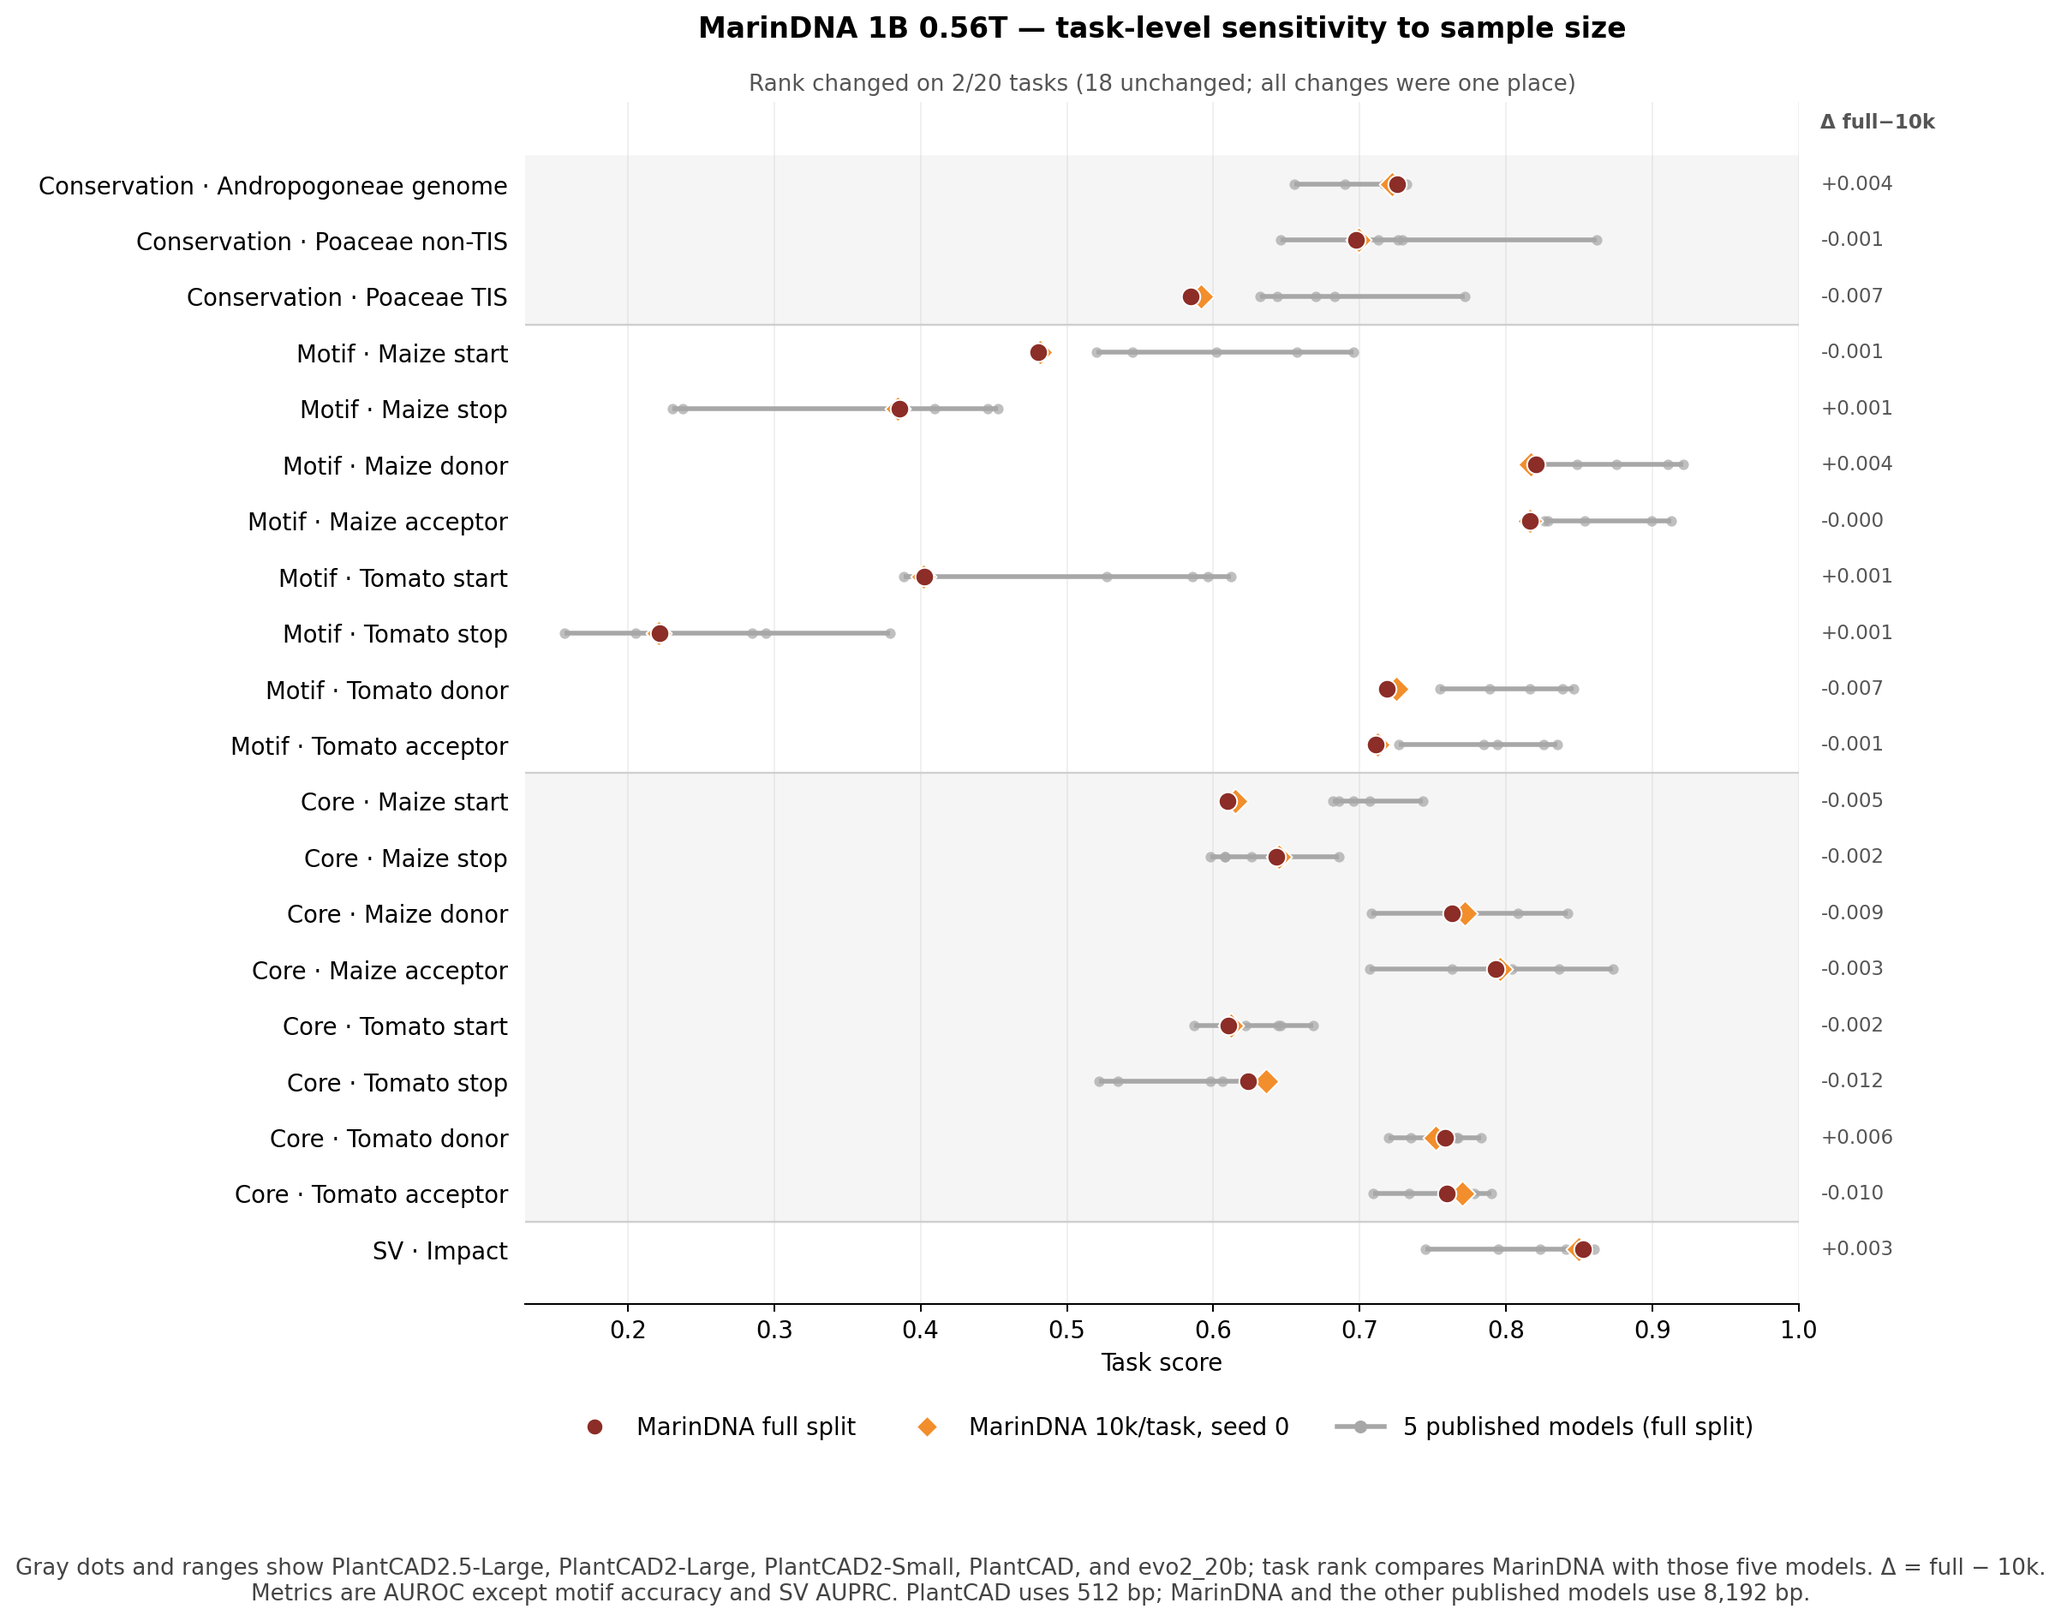
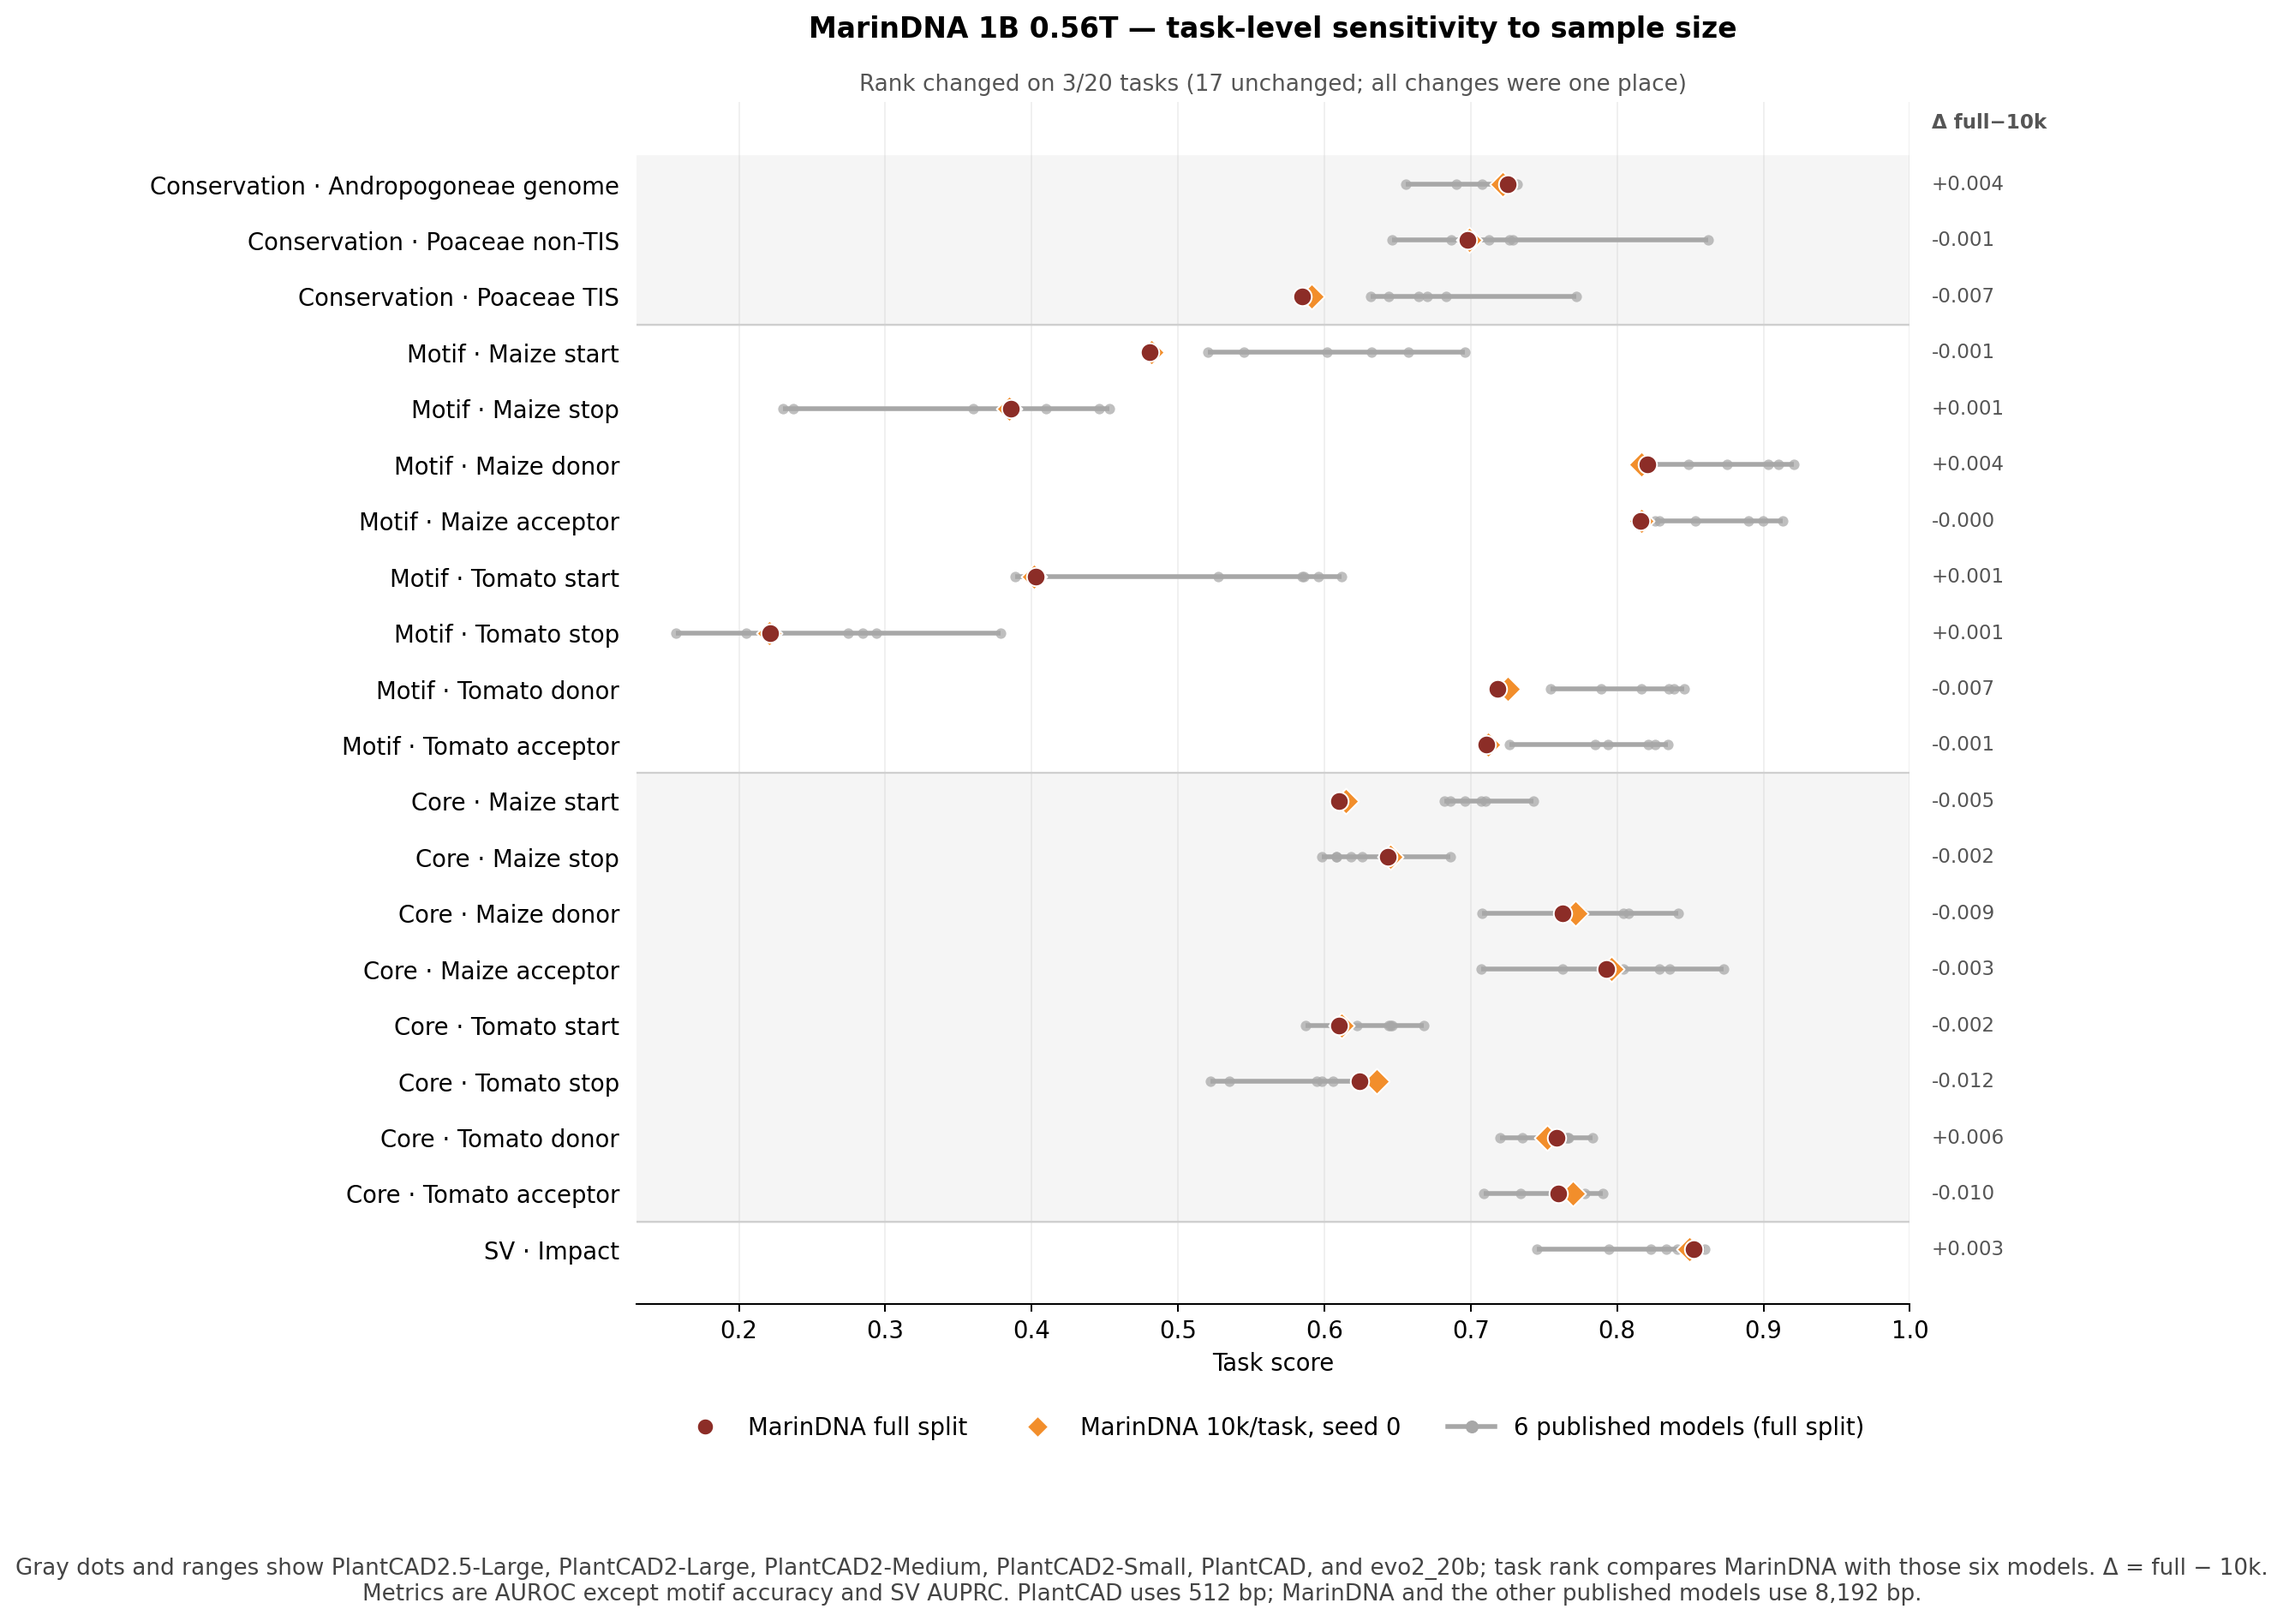
Add PlantCAD2-Medium to Result 7

diff --git a/zero-shot-leaderboard/evo2_20b/pilot/plot_task_sample_context.py b/zero-shot-leaderboard/evo2_20b/pilot/plot_task_sample_context.py
@@ -141,10 +141,10 @@ def main() -> None:
     legend = [
         mlines.Line2D([], [], marker="o", linestyle="none", markersize=8, markerfacecolor="#8C2D27", markeredgecolor="white", label="MarinDNA full split"),
         mlines.Line2D([], [], marker="D", linestyle="none", markersize=7.5, markerfacecolor="#F28E2B", markeredgecolor="white", label="MarinDNA 10k/task, seed 0"),
-        mlines.Line2D([], [], marker="o", color="#A7A7A7", linewidth=2.2, markersize=5, label="5 published models (full split)"),
+        mlines.Line2D([], [], marker="o", color="#A7A7A7", linewidth=2.2, markersize=5, label=f"{published.shape[0]} published models (full split)"),
     ]
     ax.legend(handles=legend, ncols=3, loc="upper center", bbox_to_anchor=(0.5, -0.075), frameon=False)
-    fig.text(0.5, 0.015, "Gray dots and ranges show PlantCAD2.5-Large, PlantCAD2-Large, PlantCAD2-Small, PlantCAD, and evo2_20b; task rank compares MarinDNA with those five models. Δ = full − 10k.\nMetrics are AUROC except motif accuracy and SV AUPRC. PlantCAD uses 512 bp; MarinDNA and the other published models use 8,192 bp.", ha="center", fontsize=10.5, color="#444444")
+    fig.text(0.5, 0.015, "Gray dots and ranges show PlantCAD2.5-Large, PlantCAD2-Large, PlantCAD2-Medium, PlantCAD2-Small, PlantCAD, and evo2_20b; task rank compares MarinDNA with those six models. Δ = full − 10k.\nMetrics are AUROC except motif accuracy and SV AUPRC. PlantCAD uses 512 bp; MarinDNA and the other published models use 8,192 bp.", ha="center", fontsize=10.5, color="#444444")
     fig.tight_layout(rect=(0, 0.09, 0.96, 1))
     args.output.parent.mkdir(parents=True, exist_ok=True)
     fig.savefig(args.output, dpi=180, bbox_inches="tight")

diff --git a/zero-shot-leaderboard/evo2_20b/pilot/plot_family_comparison.py b/zero-shot-leaderboard/evo2_20b/pilot/plot_family_comparison.py
@@ -17,6 +17,7 @@ from plot_recommended_comparison import PLOT_CATEGORIES, TASK_IDS, category_summ
 PUBLISHED_MODELS = (
     ("PlantCAD2.5-Large", "PlantCAD2.5-L", "8192", "#174A7E"),
     ("PlantCAD2-Large", "PlantCAD2-L", "8192", "#2F78A8"),
+    ("PlantCAD2-Medium", "PlantCAD2-M", "8192", "#4E90B6"),
     ("PlantCAD2-Small", "PlantCAD2-S", "8192", "#66A6C9"),
     ("PlantCAD (512 bp)", "PlantCAD", "512", "#A6CEE3"),
     ("evo2_20b", "evo2_20b", "8192", "#7A5195"),

diff --git a/zero-shot-leaderboard/evo2_20b/pilot/plot_recommended_comparison.py b/zero-shot-leaderboard/evo2_20b/pilot/plot_recommended_comparison.py
@@ -15,6 +15,7 @@ import numpy as np
 BASELINE_MODELS = {
     "PlantCAD2.5-Large": ("PlantCAD2.5-L", "8192"),
     "PlantCAD2-Large": ("PlantCAD2-L", "8192"),
+    "PlantCAD2-Medium": ("PlantCAD2-M", "8192"),
     "PlantCAD2-Small": ("PlantCAD2-S", "8192"),
     "PlantCAD (512 bp)": ("PlantCAD", "512"),
     "evo2_20b": ("evo2_20b", "8192"),

diff --git a/zero-shot-leaderboard/evo2_20b/pilot/runs/exp472-lr5e4-full-coreweave-20260831.md b/zero-shot-leaderboard/evo2_20b/pilot/runs/exp472-lr5e4-full-coreweave-20260831.md
@@ -4,11 +4,11 @@
 
 ![Full MarinDNA training-scale comparison](assets/marindna-1b-full-lr5e4-family-comparison-20260831.png)
 
-**Composite: 0.6843 → 0.6927 → 0.6966** at .22T → .39T → .56T. The .39T checkpoint improves 19/20 task rows over .22T; .56T improves 19/20 over .39T. All four group means increase at each stage. From .39T to .56T, all eight motif and all eight core/non-core rows improve; the only decline is Andropogoneae conservation (−0.0015 AUROC). The .56T Composite exceeds PlantCAD2-Small (0.6818) and PlantCAD (0.6808), but remains below the larger PlantCAD models and evo2_20b.
+**Composite: 0.6843 → 0.6927 → 0.6966** at .22T → .39T → .56T. The .39T checkpoint improves 19/20 task rows over .22T; .56T improves 19/20 over .39T. All four group means increase at each stage. From .39T to .56T, all eight motif and all eight core/non-core rows improve; the only decline is Andropogoneae conservation (−0.0015 AUROC). The .56T Composite exceeds PlantCAD2-Small (0.6818) and PlantCAD (0.6808), but remains below PlantCAD2-Medium (0.7248), PlantCAD2.5-Large (0.7229), PlantCAD2-Large (0.7344), and evo2_20b (0.7566).
 
 ![MarinDNA 0.56T full versus 10k by task](assets/marindna-1b-0p56t-full-vs-10k-by-task-20260831.png)
 
-At the task level, the .56T full and 10k scores remain close relative to the spread across five published models. MarinDNA's rank among those six models changes on 2/20 tasks, by one place each; the mean absolute score difference is 0.0040 and the largest is 0.0120. The direct same-example check below shows that these shifts come from sample composition rather than numerical drift.
+At the task level, the .56T full and 10k scores remain close relative to the spread across six published models. MarinDNA's rank among those seven models changes on 3/20 tasks, by one place each; the mean absolute score difference is 0.0040 and the largest is 0.0120. The direct same-example check below shows that these shifts come from sample composition rather than numerical drift.
 
 Composite gives each of the four task groups equal weight (25% each), not each of the 20 rows. Scoring is unchanged: select the larger completed forward/RC **task-level metric** for non-SV tasks; SV remains forward reference-versus-mutant. The figure uses model-family colors and annotates .56T and evo2_20b.
 
@@ -22,6 +22,7 @@ Composite gives each of the four task groups equal weight (25% each), not each o
 | MarinDNA 1B 0.22T | 0.6624 | 0.5428 | 0.6871 | 0.8448 | 0.6843 |
 | PlantCAD2.5-Large | 0.7097 | 0.6954 | 0.7414 | 0.7450 | 0.7229 |
 | PlantCAD2-Large | 0.7024 | 0.6777 | 0.7166 | 0.8410 | 0.7344 |
+| PlantCAD2-Medium | 0.6864 | 0.6627 | 0.7165 | 0.8334 | 0.7248 |
 | PlantCAD2-Small | 0.6445 | 0.6059 | 0.6823 | 0.7946 | 0.6818 |
 | PlantCAD (512 bp) | 0.6867 | 0.5577 | 0.6554 | 0.8233 | 0.6808 |
 | evo2_20b | 0.7887 | 0.6552 | 0.7224 | 0.8600 | 0.7566 |
@@ -63,28 +64,28 @@ Deltas use unrounded values. All available rows are scored; the established ambi
 <details>
 <summary><strong>Published baselines by species/task</strong></summary>
 
-| Species / task | Metric | PlantCAD2.5-Large | PlantCAD2-Large | PlantCAD2-Small | PlantCAD (512 bp) | evo2_20b |
-| :--- | ---: | ---: | ---: | ---: | ---: | ---: |
-| Conservation — Andropogoneae, genome-wide | AUROC | 0.7170 | 0.7245 | 0.6555 | 0.6902 | 0.7320 |
-| Conservation — Poaceae, non-TIS CDS | AUROC | 0.7290 | 0.7125 | 0.6462 | 0.7263 | 0.8620 |
-| Conservation — Poaceae, TIS CDS | AUROC | 0.6830 | 0.6703 | 0.6319 | 0.6437 | 0.7720 |
-| Masked motif — Maize TIS (start) | Accuracy | 0.6960 | 0.6571 | 0.5449 | 0.5204 | 0.6020 |
-| Masked motif — Maize TTS (stop) | Accuracy | 0.4460 | 0.4096 | 0.2302 | 0.2373 | 0.4530 |
-| Masked motif — Maize splice donor | Accuracy | 0.9210 | 0.9104 | 0.8754 | 0.8486 | 0.8220 |
-| Masked motif — Maize splice acceptor | Accuracy | 0.9130 | 0.8996 | 0.8537 | 0.8289 | 0.8260 |
-| Masked motif — Tomato TIS (start) | Accuracy | 0.6120 | 0.5960 | 0.5274 | 0.3885 | 0.5860 |
-| Masked motif — Tomato TTS (stop) | Accuracy | 0.2940 | 0.2848 | 0.2051 | 0.1570 | 0.3790 |
-| Masked motif — Tomato splice donor | Accuracy | 0.8460 | 0.8387 | 0.8165 | 0.7547 | 0.7890 |
-| Masked motif — Tomato splice acceptor | Accuracy | 0.8350 | 0.8257 | 0.7940 | 0.7266 | 0.7850 |
-| Core/non-core — Maize TIS (start) | AUROC | 0.7430 | 0.6960 | 0.7070 | 0.6820 | 0.6860 |
-| Core/non-core — Maize TTS (stop) | AUROC | 0.6260 | 0.6080 | 0.5980 | 0.6080 | 0.6860 |
-| Core/non-core — Maize splice donor | AUROC | 0.8420 | 0.8080 | 0.7640 | 0.7080 | 0.7760 |
-| Core/non-core — Maize splice acceptor | AUROC | 0.8730 | 0.8360 | 0.7630 | 0.7070 | 0.8040 |
-| Core/non-core — Tomato TIS (start) | AUROC | 0.6680 | 0.6460 | 0.6220 | 0.5870 | 0.6440 |
-| Core/non-core — Tomato TTS (stop) | AUROC | 0.6060 | 0.5980 | 0.5350 | 0.5220 | 0.6390 |
-| Core/non-core — Tomato splice donor | AUROC | 0.7830 | 0.7670 | 0.7350 | 0.7200 | 0.7660 |
-| Core/non-core — Tomato splice acceptor | AUROC | 0.7900 | 0.7740 | 0.7340 | 0.7090 | 0.7780 |
-| Structural variant — Impact prediction | AUPRC | 0.7450 | 0.8410 | 0.7946 | 0.8233 | 0.8600 |
+| Species / task | Metric | PlantCAD2.5-Large | PlantCAD2-Large | PlantCAD2-Medium | PlantCAD2-Small | PlantCAD (512 bp) | evo2_20b |
+| :--- | ---: | ---: | ---: | ---: | ---: | ---: | ---: |
+| Conservation — Andropogoneae, genome-wide | AUROC | 0.7170 | 0.7245 | 0.7077 | 0.6555 | 0.6902 | 0.7320 |
+| Conservation — Poaceae, non-TIS CDS | AUROC | 0.7290 | 0.7125 | 0.6869 | 0.6462 | 0.7263 | 0.8620 |
+| Conservation — Poaceae, TIS CDS | AUROC | 0.6830 | 0.6703 | 0.6647 | 0.6319 | 0.6437 | 0.7720 |
+| Masked motif — Maize TIS (start) | Accuracy | 0.6960 | 0.6571 | 0.6325 | 0.5449 | 0.5204 | 0.6020 |
+| Masked motif — Maize TTS (stop) | Accuracy | 0.4460 | 0.4096 | 0.3601 | 0.2302 | 0.2373 | 0.4530 |
+| Masked motif — Maize splice donor | Accuracy | 0.9210 | 0.9104 | 0.9031 | 0.8754 | 0.8486 | 0.8220 |
+| Masked motif — Maize splice acceptor | Accuracy | 0.9130 | 0.8996 | 0.8898 | 0.8537 | 0.8289 | 0.8260 |
+| Masked motif — Tomato TIS (start) | Accuracy | 0.6120 | 0.5960 | 0.5846 | 0.5274 | 0.3885 | 0.5860 |
+| Masked motif — Tomato TTS (stop) | Accuracy | 0.2940 | 0.2848 | 0.2747 | 0.2051 | 0.1570 | 0.3790 |
+| Masked motif — Tomato splice donor | Accuracy | 0.8460 | 0.8387 | 0.8354 | 0.8165 | 0.7547 | 0.7890 |
+| Masked motif — Tomato splice acceptor | Accuracy | 0.8350 | 0.8257 | 0.8214 | 0.7940 | 0.7266 | 0.7850 |
+| Core/non-core — Maize TIS (start) | AUROC | 0.7430 | 0.6960 | 0.7100 | 0.7070 | 0.6820 | 0.6860 |
+| Core/non-core — Maize TTS (stop) | AUROC | 0.6260 | 0.6080 | 0.6180 | 0.5980 | 0.6080 | 0.6860 |
+| Core/non-core — Maize splice donor | AUROC | 0.8420 | 0.8080 | 0.8040 | 0.7640 | 0.7080 | 0.7760 |
+| Core/non-core — Maize splice acceptor | AUROC | 0.8730 | 0.8360 | 0.8290 | 0.7630 | 0.7070 | 0.8040 |
+| Core/non-core — Tomato TIS (start) | AUROC | 0.6680 | 0.6460 | 0.6450 | 0.6220 | 0.5870 | 0.6440 |
+| Core/non-core — Tomato TTS (stop) | AUROC | 0.6060 | 0.5980 | 0.5950 | 0.5350 | 0.5220 | 0.6390 |
+| Core/non-core — Tomato splice donor | AUROC | 0.7830 | 0.7670 | 0.7650 | 0.7350 | 0.7200 | 0.7660 |
+| Core/non-core — Tomato splice acceptor | AUROC | 0.7900 | 0.7740 | 0.7660 | 0.7340 | 0.7090 | 0.7780 |
+| Structural variant — Impact prediction | AUPRC | 0.7450 | 0.8410 | 0.8334 | 0.7946 | 0.8233 | 0.8600 |
 
 </details>
 
